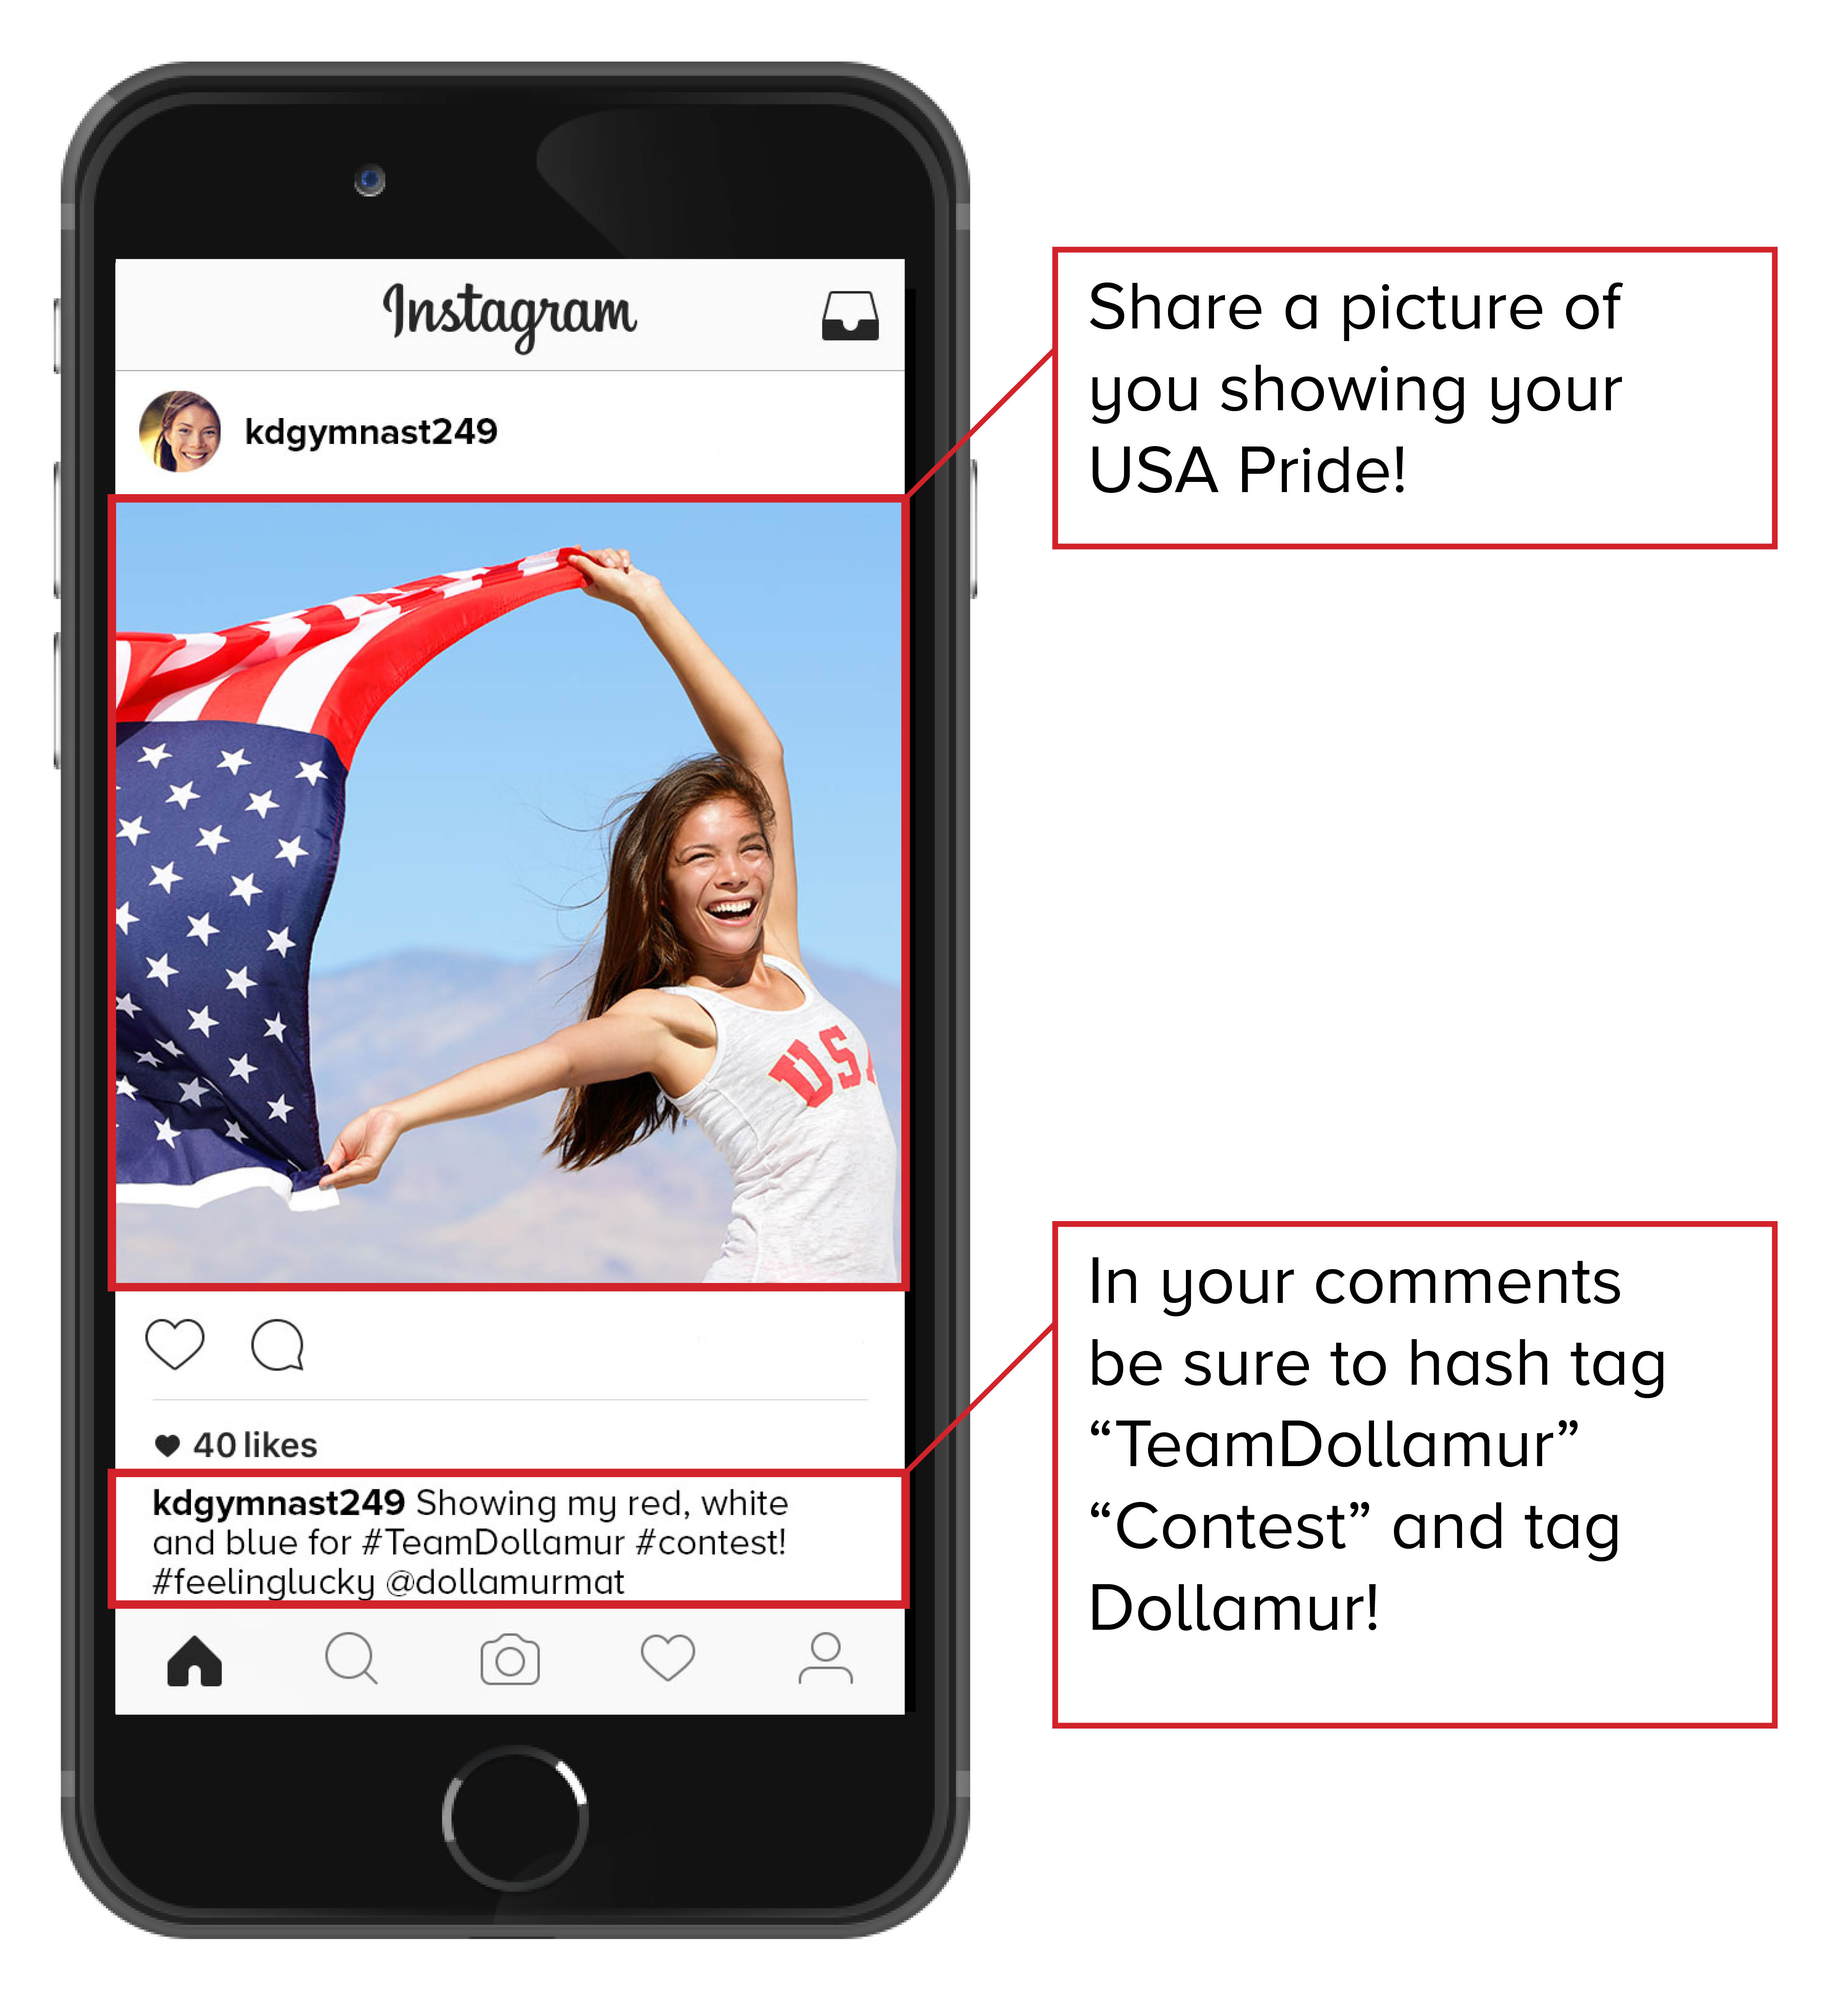
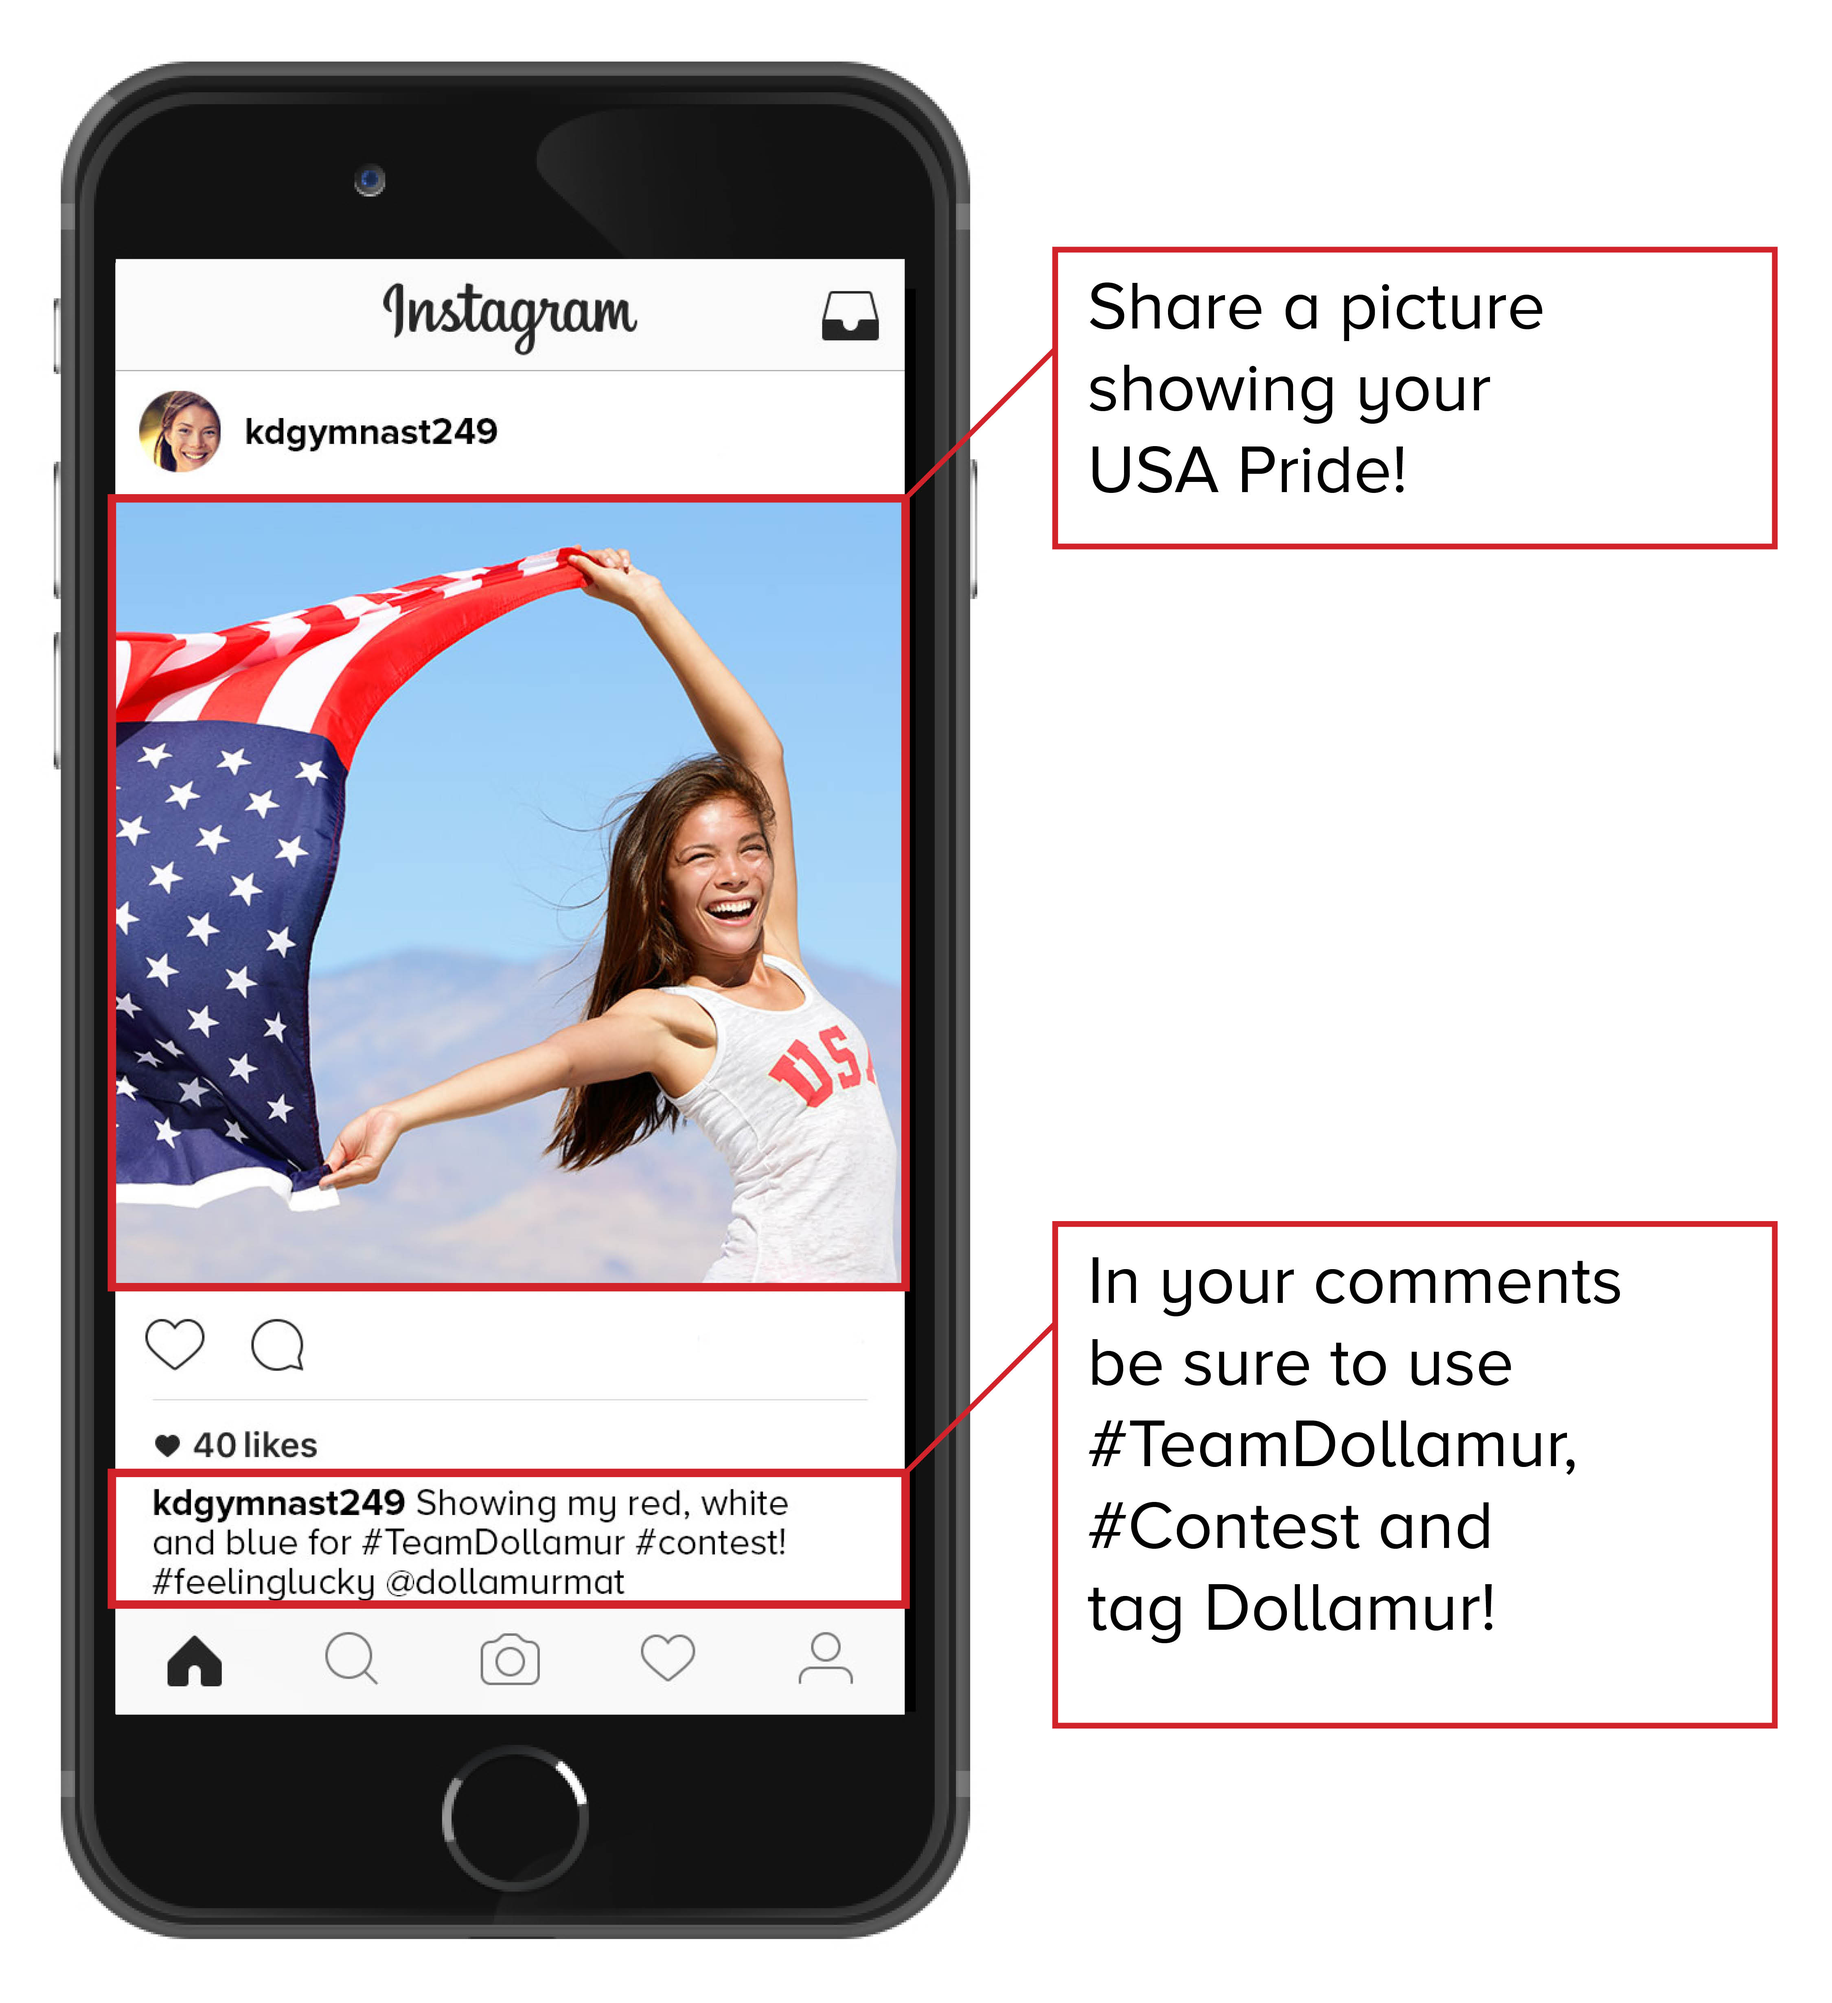
Add margin
Added margin in for two sections.
New image
Copy tweaks.

Changed region(s): [[0.5911, 0.6529, 0.9022, 0.8395], [0.5911, 0.1865, 0.8711, 0.2176], [0.7778, 0.6529, 0.84, 0.684]]

diff --git a/index.html b/index.html
@@ -75,12 +75,12 @@
 		<section> 
 			<div class="container">
 				<div class="row">
-					<h1 class="text-center">Join Team Dollamur and Share Your USA Pride</h1>
+					<h1 class="text-center">Join "TeamDollamur" and Share Your USA Pride</h1>
 				</div>
 				<div class="row">
 					<div class="col-md-2"></div>
 					<div class="col-md-8">
-						<p class="text-center">Help launch the new Dollamur <a href="http://www.dollamur.com/gymnastics/fxmat" target="_blank">FXmat</a> at the 2016 National Gymnastics Congress by sharing your USA Pride. Enter for a chance to win weekly prizes that include a 10x10 FLEXI-Connect® Stunt Pad® and a gift card.</p>
+						<p class="text-center">Help launch the new Dollamur <a href="http://www.dollamur.com/gymnastics/fxmat" target="_blank">FXmat</a> at the 2016 National Gymnastics Congress by sharing your USA Pride! Enter for a chance to win weekly prizes that include a 10x10 FLEXI-Connect® Stunt Pad® and a gift card.</p>
 					</div>
 					<div class="col-md-2"></div>
 				</div>
@@ -114,7 +114,7 @@
 								</div>
 							</div>
 							<div class="col-md-10">
-								<p>Visit Facebook or Instagram and post that photo. Tag "Dollamur Sport Surfaces" and be sure to include #TeamDollamur and #contest</p>
+								<p>Visit Facebook or Instagram and post the photo. Tag "Dollamur Sport Surfaces" and be sure to include #TeamDollamur and #Contest</p>
 							</div>
 						</div>
 					
@@ -175,7 +175,7 @@
 
 						<h4>HOW THE WINNER IS SELECTED:</h4>
 
-						<p>A First and Second Prize Winner will be selected each week beginning the week of June 17, 2016 through July 21, 2016. All winners will be contacted by a Dollamur Customer Representative.</p>
+						<p>A First and Second Prize Winner will be selected each week beginning the week of June 25, 2016 through July 21, 2016. All winners will be contacted by a Dollamur Customer Representative.</p>
 
 					</div>
 					<div class="col-md-6">
@@ -205,7 +205,7 @@
 				</div>
 				<div class="row buff">
 					<div class="col-md-12">
-						<p class="text-center legal">NO PURCHASE NECESSARY TO ENTER OR WIN. A PURCHASE WILL NOT INCREASE YOUR CHANCES OF WINNING. Open to legal residents of the 50 U.S./ D.C., 13 +. Begins 6/25/16 at 12:00:00 am CDT and ends at 12:00:00 pm CDT on 7/21/16. Follow Dollamur on Instagram and send a Post to @Dollamurmats with a caption that describes “Show Your USA Pride” and include the hashtag #TeamDollamur AND #Contest. Or enter via Facebook: Visit the Dollamur Facebook page and post a caption that describes “Show Your USA Pride” and include the hashtag #TeamDollamur AND #Contest. Void outside the 50 U.S./D.C. &amp; where prohibited. For Official Rules (including full details of entry/judging/prizes), see <a href="http://dollamur.com/fxmat/complete_rules.html" target="_blank">http://www.dollamur.com/complete_rules.</a></p>
+						<p class="text-center legal">NO PURCHASE NECESSARY TO ENTER OR WIN. A PURCHASE WILL NOT INCREASE YOUR CHANCES OF WINNING. Open to legal residents of the 50 U.S./ D.C., 13 +. Begins 6/25/16 at 12:00:00 pm CDT and ends at 12:00:00 pm CDT on 7/21/16. Follow Dollamur on Instagram and send a Post to @Dollamurmats with a caption that describes “Show Your USA Pride” and include the hashtag #TeamDollamur AND #Contest. Or enter via Facebook: Visit the Dollamur Facebook page and post a caption that describes “Show Your USA Pride” and include the hashtag #TeamDollamur AND #Contest. Void outside the 50 U.S./D.C. &amp; where prohibited. For Official Rules (including full details of entry/judging/prizes), see <a href="http://dollamur.com/fxmat/complete_rules.html" target="_blank">http://www.dollamur.com/complete_rules.</a></p>
 
 						<p class="text-center legal">Sponsor: Dollamur Sport Surfaces, 1734 E. El Paso Street, Suite 110, Fort Worth, TX 76102</p>
 

diff --git a/css/style.css b/css/style.css
@@ -15,6 +15,10 @@ h1 {
 	font-size: 2.66em;
 	color: #ea292a;
 }
+h2 {
+	margin-bottom: 20px;
+}
+
 h3 {
 	color: #ea292a;
 	margin-top: 10px;
@@ -33,7 +37,7 @@ section {
 	height: 50px;
 	border: 2px solid #ea292a;
 	border-radius: 50%;
-	margin-bottom: 10px;
+	margin-bottom: 40px;
 }
 .buff {
 	margin: 40px 0;
